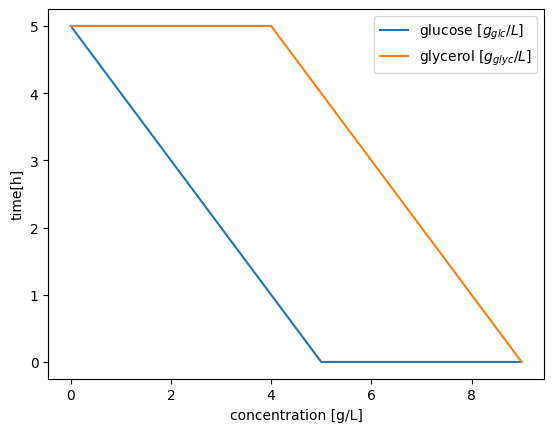
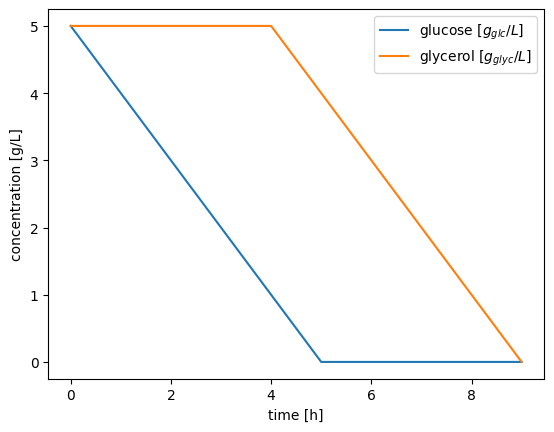
Add files via upload

Changed region(s): [[0.0, 0.3009, 0.0614, 0.6019], [0.4296, 0.9329, 0.6444, 0.9931]]

diff --git a/BioCircuitSim_functions.py b/BioCircuitSim_functions.py
@@ -1,7 +1,12 @@
 import random
 import matplotlib.pyplot as plt
 import numpy as np
-
+from typing import Tuple
+from pydna.amplify import pcr
+from pydna.dseqrecord import Dseqrecord
+import random
+import time
+import warnings
 
 def random_sequence_generator(length:int) -> str:
    nucleotides = ['A', 'T', 'C', 'G']
@@ -27,9 +32,28 @@ def get_putida_genome(promoter:str, regulator:str) -> str:
     putida_genome += random_sequence_generator(random.randint(0, 1000))
     return putida_genome
 
+def perform_pcr(forward_primer, reverse_primer, genome:str) -> Tuple[Dseqrecord, bool]:
+    #set new seed based on the time
+    t = 1e3 * time.time()
+    random.seed(int(t) % 2**32)
 
-def perform_batch_experiment(mutant, insert):
+    #randomly make the pcr work or not
+    if 0.5<random.uniform(0,1):
+        pcr_product = pcr(forward_primer, reverse_primer, genome)
+        return pcr_product, True
+    else:
+        #hybridized primers
+        primer = Dseqrecord((forward_primer.seq+reverse_primer.seq+forward_primer.seq)*2)
+        primer.add_feature()
+        return primer, False
+
+def perform_batch_experiment(mutant, pcr_product:Tuple):
     time = np.arange(0, 10)
+    #PCR failes
+    if not pcr_product[1]:
+        warnings.warn('PCR has failed, mutant does not contain insert. Please try to run the PCR again')
+        return
+    insert = pcr_product[0]
     if len(insert.seq) == 56 + 115:
         glc = [5, 4, 3, 2, 1, 0, 0, 0, 0, 0]
         glyc = [5, 4, 3, 2, 1, 0, 0, 0, 0, 0]
@@ -65,7 +89,7 @@ def perform_batch_experiment(mutant, insert):
 
     plt.plot(time, glc, label= 'glucose [$g_{glc}/L$]')
     plt.plot(time, glyc,  label= 'glycerol [$g_{glyc}/L$]')
-    plt.xlabel('concentration [g/L]')
-    plt.ylabel('time[h]')
+    plt.xlabel('time [h]')
+    plt.ylabel('concentration [g/L]')
     plt.legend()
     plt.show()
